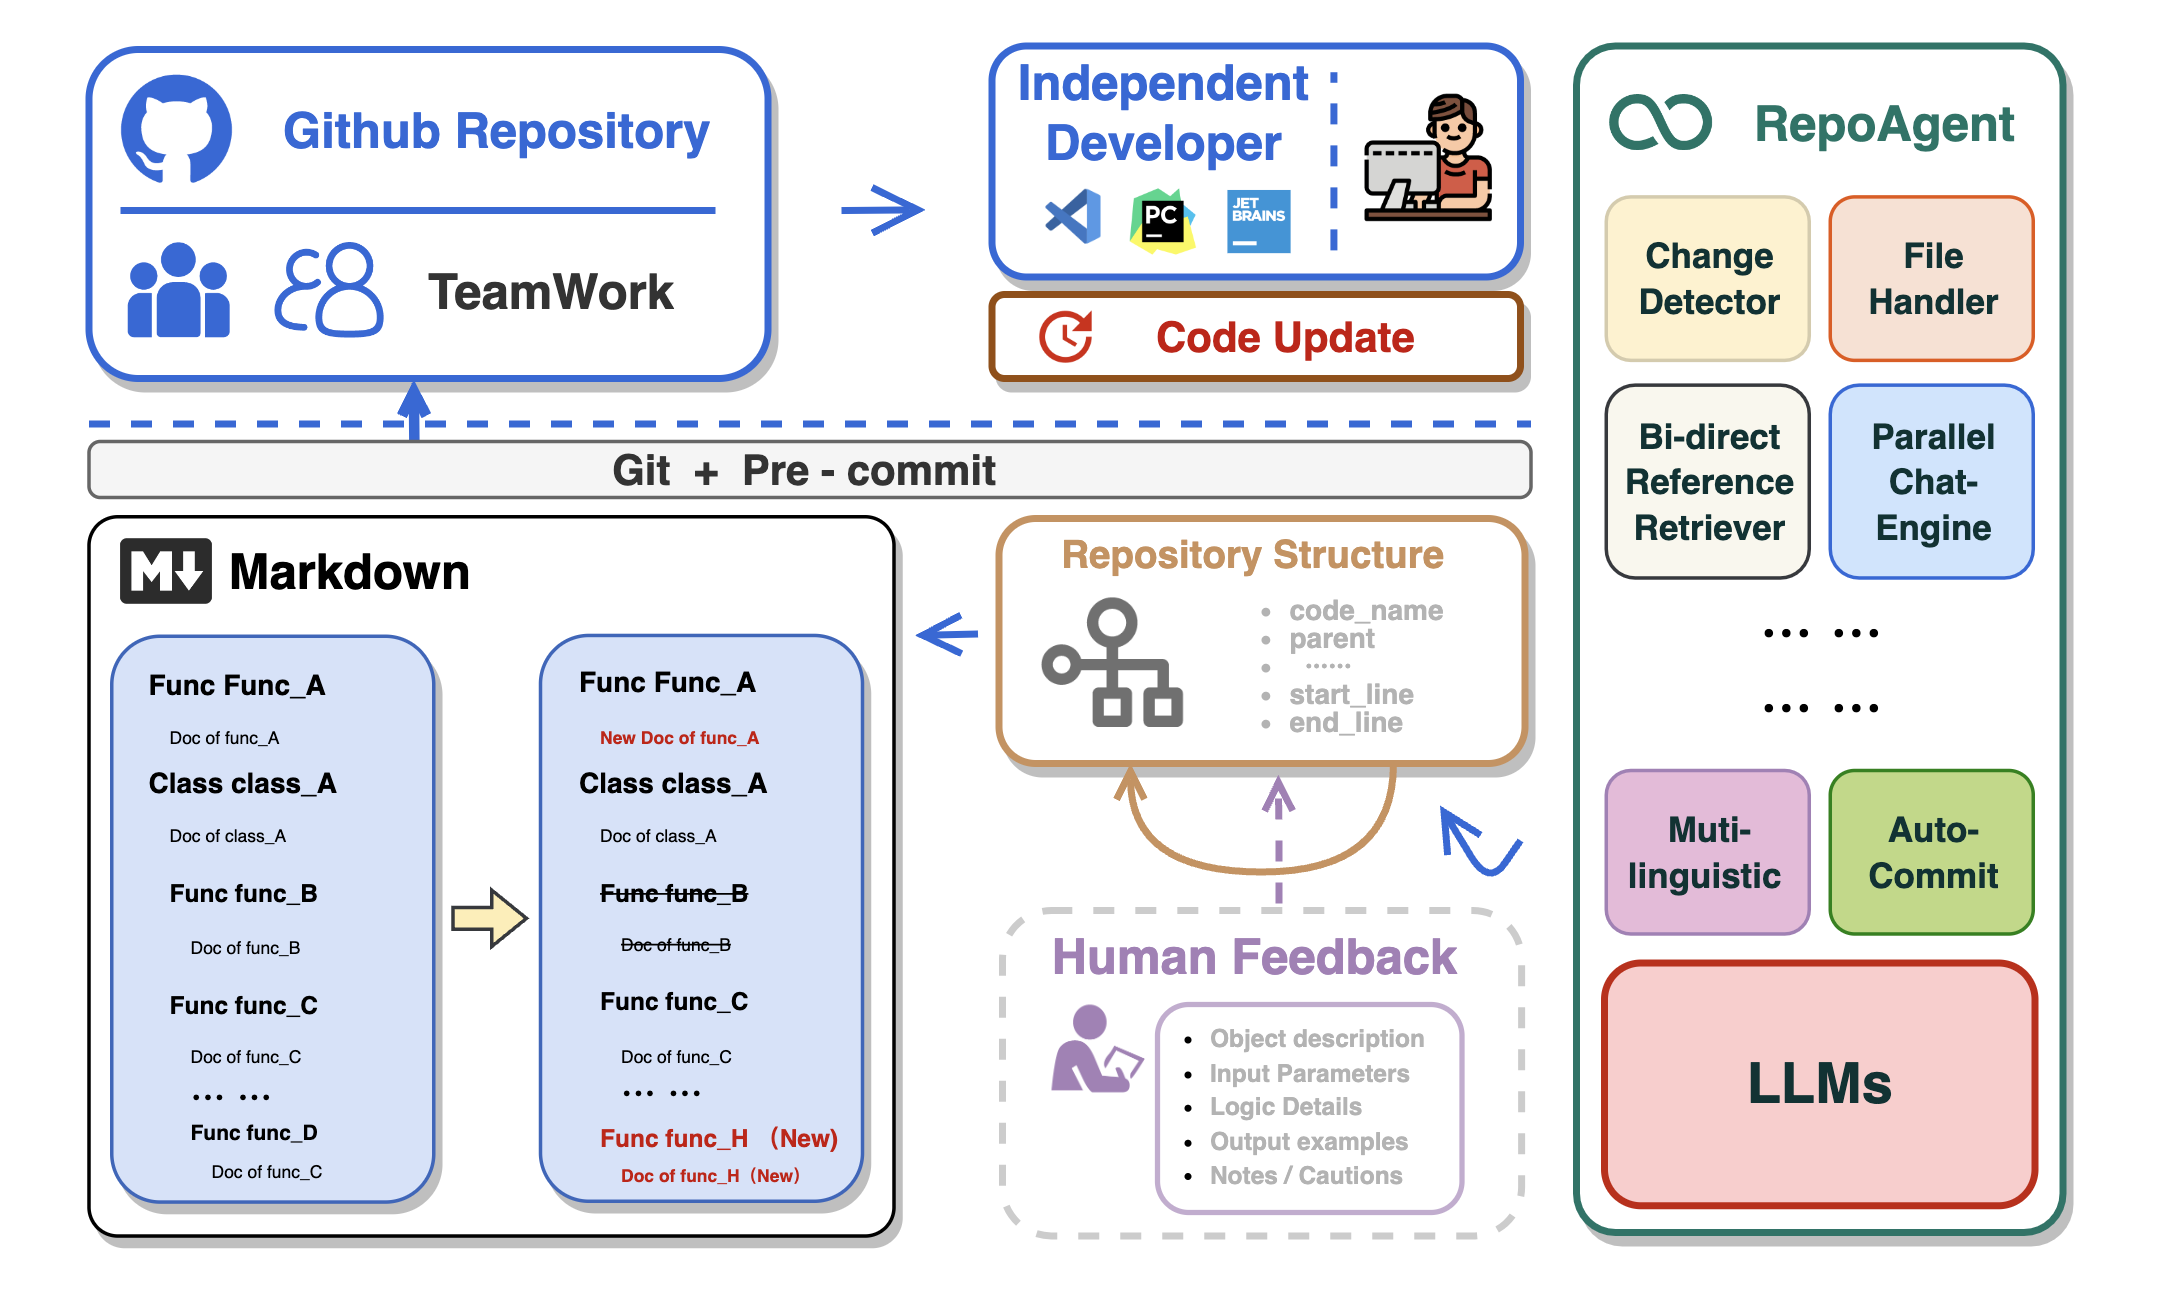
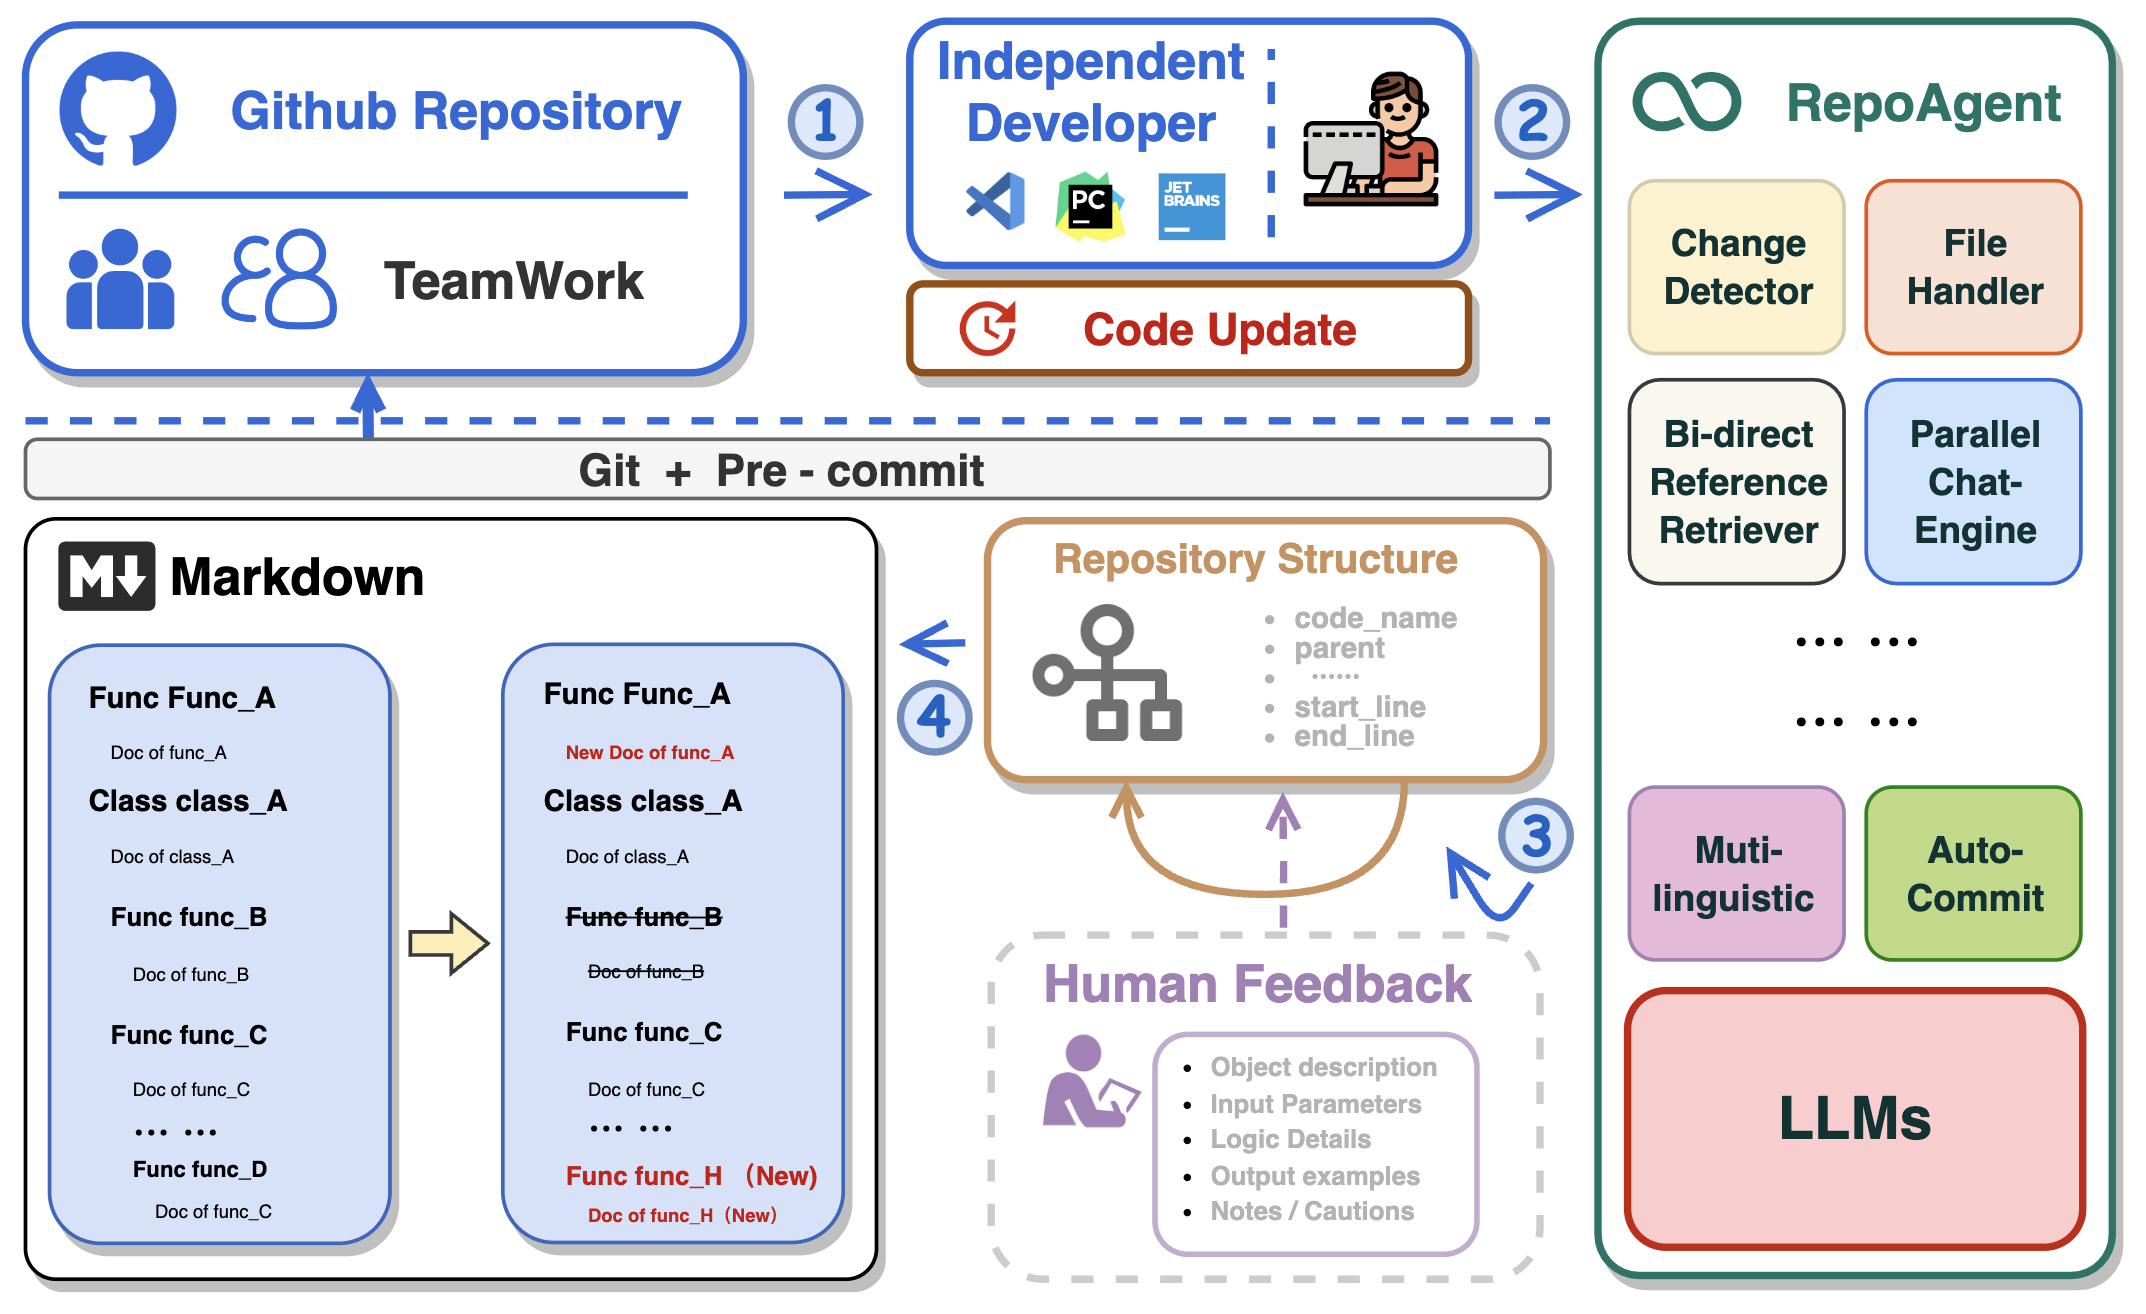
docs: update readme

diff --git a/README.md b/README.md
@@ -18,10 +18,12 @@ Traditionally, creating and maintaining software documentation demanded signific
 
 - **🤖 Automatically detects changes in Git repositories, tracking additions, deletions, and modifications of files.**
 - **📝 Independently analyzes the code structure through AST, generating documents for individual objects.**
-- **🔍 Accurate identification of inter-object invocation relationships, enriching the global perspective of document content.**
+- **🔍 Accurate identification of inter-object bidirectional invocation relationships, enriching the global perspective of document content.**
 - **📚 Seamlessly replaces Markdown content based on changes, maintaining consistency in documentation.**
 - **🕙 Executes multi-threaded concurrent operations, enhancing the efficiency of document generation.**
 - **👭 Offer a sustainable, automated documentation update method for team collaboration.**
+- **😍 Display Code Documentation in an amazing way. (with document book per project powered by Gitbook)**
+
 
 ## 🚀 Getting Started
 
@@ -100,7 +102,7 @@ repo_path: /path/to/your/repo
 project_hierarchy: .project_hierarchy # This is a folder, where we store the project hierarchy and metainfo. This can be shared with your team members.
 Markdown_Docs_folder: Markdown_Docs # The folder in the root directory of your target repository to store the documentation.
 ignore_list: ["ignore_file1.py", "ignore_file2.py", "ignore_directory"] # Ignore some py files or folders that you don't want to generate documentation for by giving relative paths in ignore_list.
-whitelist_path: /path/of/whitelist_path_json #if you provide the whitelist json, will only process the given part. This is useful in a very big project, like "higgingface Transformers"
+whitelist_path: /path/of/whitelist_path_json #if you provide the whitelist json with the same structure in Metainfo, RepoAgent will only process the given part. This is useful in a very big project, like "higgingface Transformers"
 
 language: en # Two-letter language codes (ISO 639-1 codes), e.g. `language: en` for English. Refer to Supported Language for more languages.
 max_thread_count: 10 # We support multiprocessing to speedup the process
@@ -163,13 +165,16 @@ After execution, RepoAgent will automatically modify the staged files in the tar
 
 The generated document will be stored in the specified folder in the root directory of the target warehouse. The rendering of the generated document is as shown below:
 ![Documentation](assets/images/Doc_example.png)
+![Documentation](assets/images/8_documents.png)
 
-We utilized the default model **gpt-3.5-turbo** to generate documentation for the [**XAgent**](https://github.com/OpenBMB/XAgent) project, which comprises approximately **270,000 lines** of code. You can view the results of this generation in the Markdown_Docs directory of the XAgent project on GitHub. For enhanced documentation quality, we suggest considering more advanced models like **gpt-4** or **gpt-4-1106-preview**.
+We utilized the default model **gpt-3.5-turbo** to generate documentation for the [**XAgent**](https://github.com/OpenBMB/XAgent) project, which comprises approximately **270,000 lines** of code. You can view the results of this generation in the Markdown_Docs directory of the XAgent project on GitHub. For enhanced documentation quality, we suggest considering more advanced models like **gpt-4-1106** or **gpt-4-0125-preview**.
 
 **In the end, you can flexibly adjust the output format, template, and other aspects of the document by customizing the prompt. We are excited about your exploration of a more scientific approach to Automated Technical Writing and your contributions to the community.** 
 
-### Using chat with repo
+### Exploring chat with repo
+We conceptualize **Chat With Repo** as a unified gateway for these downstream applications, acting as a connector that links RepoAgent to human users and other AI agents. Our future research will focus on adapting the interface to various downstream applications and customizing it to meet their unique characteristics and implementation requirements.
 
+Here we demonstrate a preliminary prototype of one of our downstream tasks: Automatic Q&A for Issues and Code Explanation. You can start the server by running the following code.
 ```bash
 python -m repo_agent.chat_with_repo
 ```
@@ -183,7 +188,9 @@ python -m repo_agent.chat_with_repo
 - [x] Automatically generate better visualizations such as Gitbook
 - [ ] Generate README.md automatically combining with the global documentation
 - [ ] **Multi-programming-language support** Support more programming languages like Java, C or C++, etc.
-- [ ] Local model support like Llama, chatGLM, Qianwen, GLM4, etc.
+- [ ] Local model support like Llama, chatGLM, Qwen, GLM4, etc.
+- [X] Automatically generate Gitbook for better visualization effects
+
 
 ## 🇺🇳 Supported Language
 
@@ -228,11 +235,11 @@ Set the target language with the two-letter language codes (ISO 639-1 codes), Cl
 
 ```bibtex
 @misc{RepoAgent,
-  author = {Qinyu Luo, Yining Ye, Shihao Liang, Arno},
+  author = {Qinyu Luo, Yining Ye, Shihao Liang, Zhong Zhang, Arno, Yang Li},
   title = {RepoAgent: A LLM-based Intelligent tool for repository understanding and documentation writing},
   year = {2023},
   publisher = {GitHub},
   journal = {GitHub repository},
-  howpublished = {\url{https://github.com/LOGIC-10/RepoAgent}},
+  howpublished = {\url{https://github.com/OpenBMB/RepoAgent}},
 }
 ```
